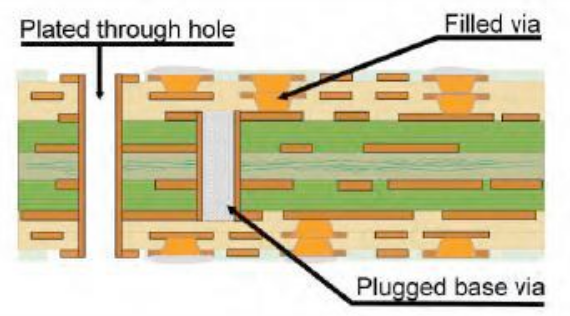
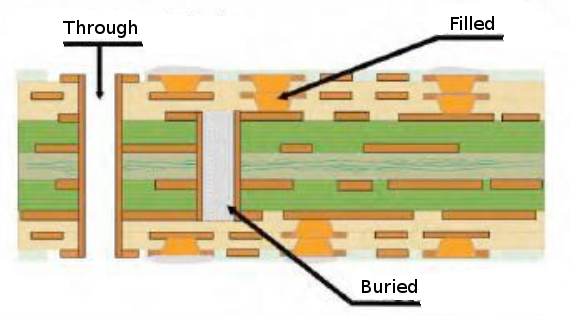
ES08-2: Finish manufacture

Changed region(s): [[0.0298, 0.057, 0.4175, 0.1709], [0.6263, 0.8544, 0.9544, 0.9968], [0.7754, 0.0285, 0.9544, 0.1424]]

diff --git a/pub/es08-2-manufacture.html b/pub/es08-2-manufacture.html
@@ -25,7 +25,7 @@
 
 <div id="impress">
     <!-- Title slide -->
-    <div id="title" class="step slide" data-x="500" data-y="0">
+    <div id="title" class="step slide" data-x="0" data-y="0">
         <div class="logo">
             <img src='images/ANU_LOGO_cmyk_56mm-large.png' width='200' />
         </div>
@@ -34,44 +34,44 @@
             <p>Research School of Engineering</p>
             <p class="course">ENGN8537: Embedded Systems and Real Time Digital Signal Processing</p>
         </div>
-        <div id="say"></div>
+        <div id="say">Don't ever</div>
         <div class="titlebox">
             <h1>Manufacture</h1>
         </div>
-        <div id="say2"></div>
+        <div id="say2">here. Or I'll beat you up each time.<br/>Careful, mind the step.</div>
         <div class="linkbox">
             <a href="?print">print view</a>
         </div>
         <div class="notes"></div>
     </div>
 
-    <div class="step" data-x='1500' data-y='0' data-scale="0.7">
+    <div class="step" data-x='1000' data-y='300' data-scale="0.7">
         <h1>Printed Circuit Board</h1>
         <center><img src="images/manufacture/stackup.png" class="naked"> </center>
     </div>
 
 
-    <div class="step" data-x='1890' data-y='-30' data-scale="0.2">
+    <div class="step" data-x='1390' data-y='270' data-scale="0.2">
         <h2>Copper</h2>
         Starts off a solid copper set and will be selectively etched to form traces.
     </div>
 
 
-    <div class="step" data-x='1890' data-y='0' data-scale="0.2">
+    <div class="step" data-x='1390' data-y='300' data-scale="0.2">
         <h2>Prepreg</h2>
         Pre-impregnated material. Usually glass fibre preimpregnated with expoxy.
 
         <div class="notes">Substrates may also include Teflon for good RF performance, Aluminium for good thermal properties etc.</div>
     </div>
 
-    <div class="step" data-x='1890' data-y='30' data-scale="0.2">
+    <div class="step" data-x='1390' data-y='330' data-scale="0.2">
         <h2>Core</h2>
         Core material gives mechanical stability and strength.
 
         <div class="notes">Core may be aluminium for thermal properties. Most commonly the same material as the prepreg.</div>
     </div>
 
-    <div class="step" data-x='2290' data-y='30' data-scale="0.5">
+    <div class="step" data-x='690' data-y='730' data-scale="0.5">
         <h1>Etching</h1>
         <div style="float:left;width:400px">
             <p>Process:</p>
@@ -92,9 +92,99 @@
         This process introduces minimum track and space widths. A track that’s too thin might etch completely through and form an open circuit; a space too thin might not provide enough surface area for the etchant to work and cause a short circuit between adjacent traces.</div>
     </div>
 
+    <div class="step" data-x='1290' data-y='730' data-scale="0.5">
+        <h1>Vias</h1>
+        <div style="float:left;width:350px">
+            <p>Interconnects between layers are called <b>Vias</b>.</p>
+            <p>Many different styles:
+            <ul><li>Through</li>
+                <li>Blind</li>
+                <li>Buried</li>
+                <li>Microvia</li></ul></p>
+
+            <p>Can also be
+                <ul><li>Plugged/Unplugged</li>
+                    <li>Tented/Untented</li></ul></p>
+        </div>
+        <div style="float:right"><img src="images/manufacture/vias.png" style="width:550px"></div>
+
+        <div class="notes">Through vias are made with a drill through the whole stack. The same process is used for making mounting holes, through-hole component pads etc.
+
+        Blind and Buried vias are exposed on one side of the PCB or completely inside the PCB respectively. Blind vias have to be drilled before the final sandwich is made; buried vias have to be drilled and plated before the sandwich is made. This adds to costs significantly.
+
+        Microvias are not made with a drill, nor plated in the usual way. The innermost layer to which the via connects is left as a solid copper pad, the outer layers just have rings of copper. A laser is used to burn away the prepreg material in the middle of the ring, but it isn't strong enough to burn away the copper on the final layer so that's where it stops. Once the hole is made in this way, it is completely filled with copper to make the connection.
+
+        Plugged (also called Filled) vias have extra copper plugged in the top in order to form a solid top surface. This top surface can be soldered to, so this type of via is suitable for putting directly underneath a component connection pad. If you do not plug the via, some solder from the joint may be sucked down in to that via as you're trying to mount the component, leading to a bad joint.
+
+        Tented vias have a "solder mask" deposited over the top of them. This means that they are not electrically exposed to the outside world so cannot short out against things (e.g. they're safe to put against a sheet of metal when mounting).</div>
+    </div>
+
+    <div class="step" data-x='1290' data-y='1030' data-scale="0.5">
+        <h2>Aspect Ratio</h2>
+        <div style="float:left;width:300px">
+            <p>High aspect ratio can lead to poor or no connection between layers.</p>
+        </div>
+        <div style="float:right"><img src="images/manufacture/via-aspect.png" class="naked"></div>
+
+        <div class="notes">Manufacturing houses often give a minimum via diameter that they can manufacture. In fact, the aspect ratio is just as important.  This is the ratio between the depth and diameter of the via.
+
+        When a via is made, it must be electroplated internally to deposit the copper. If the via is too narrow, the electroplating solution may not make it all the way inside.
+
+        This leaves less copper there than intended. This thin copper may "fuse out" when you pass normal amounts of current through it; or the copper may fatigue and break due to thermal expansion.</div>
+    </div>
+
+    <div class="step" data-x="1800" data-y="300" data-scale="0.5">
+        <h1>Thermal Expansion</h1>
+        <center><img src="images/manufacture/expansion.png"></center>
+
+        <div class="notes">On a typical circuit board, there will be a number of different types of device all made from different materials. Moreover, the board itself is made from at least two materials (prepreg and copper) and all boards use solder to connect parts as well.
+
+            The different coefficients of thermal expansion of these materials mean that joints are put under stress every time the temperature changes.
+
+            A reliable electronic system must take in to account the maximum operating temperature range and ensure that all materials used are compatible.</div>
+    </div>
+
+    <div class="step" data-x='1800' data-y='700' data-scale="0.5">
+        <h2>BGA</h2>
+        <center>
+            <img src="images/manufacture/bga1.png" style="width:50%">
+            <img src="images/manufacture/bga2.png">
+        </center>
+
+        <div class="notes">BGAs are common sources of thermal problems. The cases are plastic or ceramic, the balls are solder, the traces are copper, the board to which it will be soldered is (typically) fibreglass. BGAs can be physically quite large meaning that a relatively small mismatch in expansion coefficient adds up to a significant lateral deviation at the edges.
+
+        BGAs in high reliability environments are often glued to the board. While this doesn't stop thermal issues, it does mean that the glue takes the bulk of the strain rather than the solder. This can prevent broken solder joints.
+
+        Image Credits: The Computer Desktop Encyclopedia; Rainer Knapper</div>
+    </div>
+
+    <div class="step" data-x="2400" data-y="250" data-scale="0.5">
+        <h1>RoHS</h1>
+        <div style="float:left;width:500px">
+            The RoHS directive states that certain chemicals cannot be used in
+consumer electronics:
+            <ul><li>Lead (Pb)</li>
+                <li>Mercury (Hg)</li>
+                <li>Cadmium (Cd)</li>
+                <li>Hexavalent chromium (Cr 6+ )</li>
+                <li>Polybrominated biphenyls (PBB)</li>
+                <li>Polybrominated diphenyl ether (PBDE)</li></ul>
+        </div>
+        <div style="float:right">
+            <img src="images/manufacture/rohs.png" class="naked">
+        </div>
+
+        <div class="notes">As Systems Engineers, all designs should consider factors such as the system lifecycle cost and environmental impact. In the electronics industry, you’re forced to consider the environment in at least one way: The European Union Reduction of Hazardous Substances directive (RoHS).
+
+        Most electronic devices imported in to the EU (and some other juristictions) must conform to the RoHS standard.
+
+        There is an exception for some classes of electronics, e.g. Defence-related equipment.
+
+        Historically, solder has been made from Lead and Tin (SnPb). This is not RoHS-compliant; modern solder is made from other alloys of Tin, Copper, Silver and more exotic materials. Many electronics professionals speak of RoHS derisively as the quality of Lead-free solder is only recently  approaching that of old-school SnPb. It’s generally harder to rework, doesn’t flow as smoothly, is more brittle and doesn’t look as nice.</div>
+    </div>
 
     <!-- Overview pseudo-slide, the data-* elements are filled in by the positioner script -->
-	<div id="overview" class="step" data-x="1145" data-y="-101.6" data-scale="2.6">&nbsp</div>
+	<div id="overview" class="step" data-x="1200" data-y="379.0" data-scale="2.7">&nbsp</div>
 </div>
 
 <script src="js/impress.js"></script>

diff --git a/ES08/es08-2-manufacture.html b/ES08/es08-2-manufacture.html
@@ -25,7 +25,7 @@
 
 <div id="impress">
     <!-- Title slide -->
-    <div id="title" class="step slide" data-x="500" data-y="0">
+    <div id="title" class="step slide" data-x="0" data-y="0">
         <div class="logo">
             <img src='images/ANU_LOGO_cmyk_56mm-large.png' width='200' />
         </div>
@@ -34,18 +34,18 @@
             <p>Research School of Engineering</p>
             <p class="course">ENGN8537: Embedded Systems and Real Time Digital Signal Processing</p>
         </div>
-        <div id="say"></div>
+        <div id="say">Don't ever</div>
         <div class="titlebox">
             <h1>Manufacture</h1>
         </div>
-        <div id="say2"></div>
+        <div id="say2">here. Or I'll beat you up each time.<br/>Careful, mind the step.</div>
         <div class="linkbox">
             <a href="?print">print view</a>
         </div>
         <div class="notes"></div>
     </div>
 
-    <div class="step" data-x-rel="1000" data-y-rel="0" data-scale="0.7">
+    <div class="step" data-x-rel="1000" data-y-rel="300" data-scale="0.7">
         <h1>Printed Circuit Board</h1>
         <center><img src="images/manufacture/stackup.png" class="naked"> </center>
     </div>
@@ -71,7 +71,7 @@
         <div class="notes">Core may be aluminium for thermal properties. Most commonly the same material as the prepreg.</div>
     </div>
 
-    <div class="step" data-x-rel="400" data-y-rel="0" data-scale="0.5">
+    <div class="step" data-x-rel="-700" data-y-rel="400" data-scale="0.5">
         <h1>Etching</h1>
         <div style="float:left;width:400px">
             <p>Process:</p>
@@ -92,6 +92,96 @@
         This process introduces minimum track and space widths. A track that’s too thin might etch completely through and form an open circuit; a space too thin might not provide enough surface area for the etchant to work and cause a short circuit between adjacent traces.</div>
     </div>
 
+    <div class="step" data-x-rel="600" data-y-rel="0" data-scale="0.5">
+        <h1>Vias</h1>
+        <div style="float:left;width:350px">
+            <p>Interconnects between layers are called <b>Vias</b>.</p>
+            <p>Many different styles:
+            <ul><li>Through</li>
+                <li>Blind</li>
+                <li>Buried</li>
+                <li>Microvia</li></ul></p>
+
+            <p>Can also be
+                <ul><li>Plugged/Unplugged</li>
+                    <li>Tented/Untented</li></ul></p>
+        </div>
+        <div style="float:right"><img src="images/manufacture/vias.png" style="width:550px"></div>
+
+        <div class="notes">Through vias are made with a drill through the whole stack. The same process is used for making mounting holes, through-hole component pads etc.
+
+        Blind and Buried vias are exposed on one side of the PCB or completely inside the PCB respectively. Blind vias have to be drilled before the final sandwich is made; buried vias have to be drilled and plated before the sandwich is made. This adds to costs significantly.
+
+        Microvias are not made with a drill, nor plated in the usual way. The innermost layer to which the via connects is left as a solid copper pad, the outer layers just have rings of copper. A laser is used to burn away the prepreg material in the middle of the ring, but it isn't strong enough to burn away the copper on the final layer so that's where it stops. Once the hole is made in this way, it is completely filled with copper to make the connection.
+
+        Plugged (also called Filled) vias have extra copper plugged in the top in order to form a solid top surface. This top surface can be soldered to, so this type of via is suitable for putting directly underneath a component connection pad. If you do not plug the via, some solder from the joint may be sucked down in to that via as you're trying to mount the component, leading to a bad joint.
+
+        Tented vias have a "solder mask" deposited over the top of them. This means that they are not electrically exposed to the outside world so cannot short out against things (e.g. they're safe to put against a sheet of metal when mounting).</div>
+    </div>
+
+    <div class="step" data-x-rel="0" data-y-rel="300" data-scale="0.5">
+        <h2>Aspect Ratio</h2>
+        <div style="float:left;width:300px">
+            <p>High aspect ratio can lead to poor or no connection between layers.</p>
+        </div>
+        <div style="float:right"><img src="images/manufacture/via-aspect.png" class="naked"></div>
+
+        <div class="notes">Manufacturing houses often give a minimum via diameter that they can manufacture. In fact, the aspect ratio is just as important.  This is the ratio between the depth and diameter of the via.
+
+        When a via is made, it must be electroplated internally to deposit the copper. If the via is too narrow, the electroplating solution may not make it all the way inside.
+
+        This leaves less copper there than intended. This thin copper may "fuse out" when you pass normal amounts of current through it; or the copper may fatigue and break due to thermal expansion.</div>
+    </div>
+
+    <div class="step" data-x="1800" data-y="300" data-scale="0.5">
+        <h1>Thermal Expansion</h1>
+        <center><img src="images/manufacture/expansion.png"></center>
+
+        <div class="notes">On a typical circuit board, there will be a number of different types of device all made from different materials. Moreover, the board itself is made from at least two materials (prepreg and copper) and all boards use solder to connect parts as well.
+
+            The different coefficients of thermal expansion of these materials mean that joints are put under stress every time the temperature changes.
+
+            A reliable electronic system must take in to account the maximum operating temperature range and ensure that all materials used are compatible.</div>
+    </div>
+
+    <div class="step" data-x-rel="0" data-y-rel="400" data-scale="0.5">
+        <h2>BGA</h2>
+        <center>
+            <img src="images/manufacture/bga1.png" style="width:50%">
+            <img src="images/manufacture/bga2.png">
+        </center>
+
+        <div class="notes">BGAs are common sources of thermal problems. The cases are plastic or ceramic, the balls are solder, the traces are copper, the board to which it will be soldered is (typically) fibreglass. BGAs can be physically quite large meaning that a relatively small mismatch in expansion coefficient adds up to a significant lateral deviation at the edges.
+
+        BGAs in high reliability environments are often glued to the board. While this doesn't stop thermal issues, it does mean that the glue takes the bulk of the strain rather than the solder. This can prevent broken solder joints.
+
+        Image Credits: The Computer Desktop Encyclopedia; Rainer Knapper</div>
+    </div>
+
+    <div class="step" data-x="2400" data-y="250" data-scale="0.5">
+        <h1>RoHS</h1>
+        <div style="float:left;width:500px">
+            The RoHS directive states that certain chemicals cannot be used in
+consumer electronics:
+            <ul><li>Lead (Pb)</li>
+                <li>Mercury (Hg)</li>
+                <li>Cadmium (Cd)</li>
+                <li>Hexavalent chromium (Cr 6+ )</li>
+                <li>Polybrominated biphenyls (PBB)</li>
+                <li>Polybrominated diphenyl ether (PBDE)</li></ul>
+        </div>
+        <div style="float:right">
+            <img src="images/manufacture/rohs.png" class="naked">
+        </div>
+
+        <div class="notes">As Systems Engineers, all designs should consider factors such as the system lifecycle cost and environmental impact. In the electronics industry, you’re forced to consider the environment in at least one way: The European Union Reduction of Hazardous Substances directive (RoHS).
+
+        Most electronic devices imported in to the EU (and some other juristictions) must conform to the RoHS standard.
+
+        There is an exception for some classes of electronics, e.g. Defence-related equipment.
+
+        Historically, solder has been made from Lead and Tin (SnPb). This is not RoHS-compliant; modern solder is made from other alloys of Tin, Copper, Silver and more exotic materials. Many electronics professionals speak of RoHS derisively as the quality of Lead-free solder is only recently  approaching that of old-school SnPb. It’s generally harder to rework, doesn’t flow as smoothly, is more brittle and doesn’t look as nice.</div>
+    </div>
 
     <!-- Overview pseudo-slide, the data-* elements are filled in by the positioner script -->
     <div id="overview" class="step"/>
